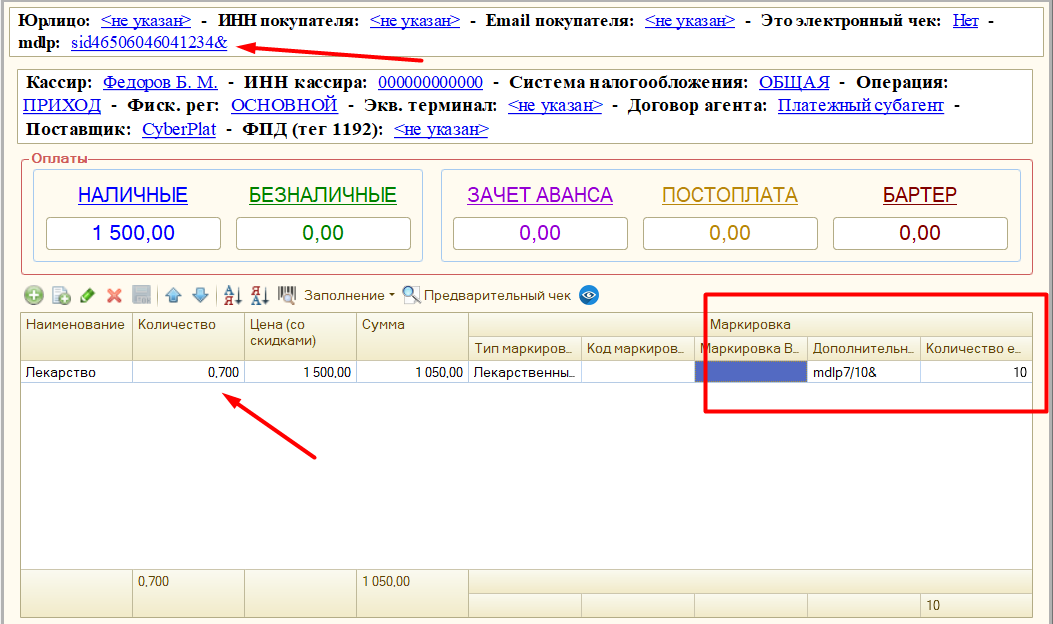
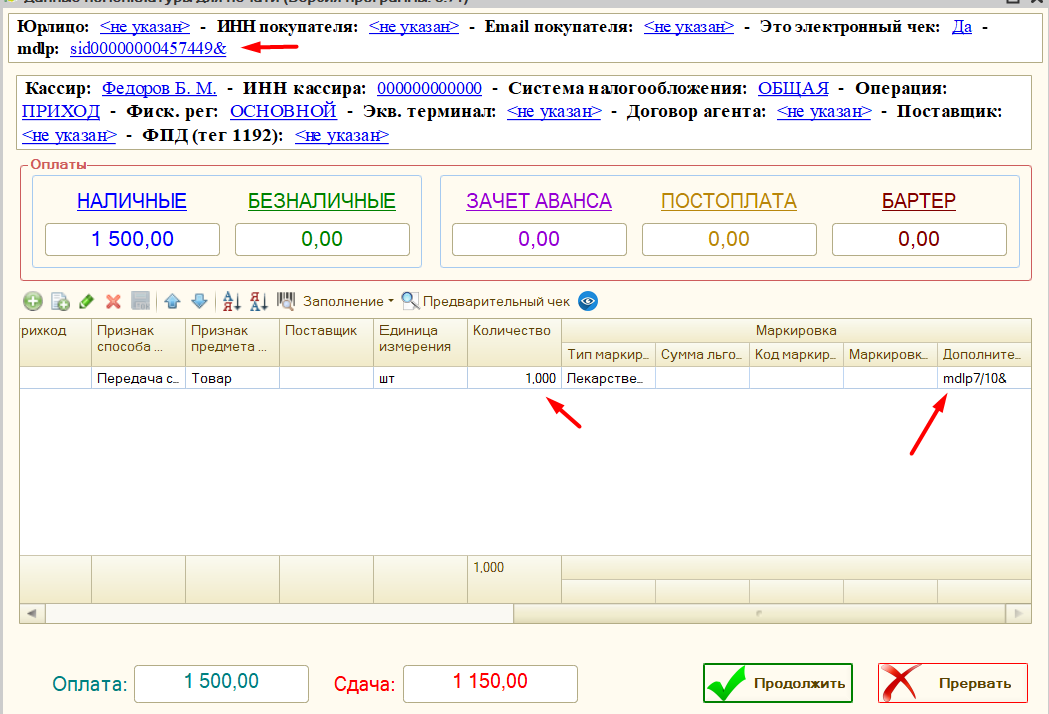
Добавление инструкции для частичной продажи маркированного товара

diff --git a/marking.md b/marking.md
@@ -26,21 +26,29 @@
 
 Продажа лекарств отличается небольшими тонкостями при настройке. Вначале в программе необходим включить параметр **"Использовать маркировку лекарств"**, и заполнить **"Идентификатор места деятельности МДЛП"**. Идентификатор будет передавать в составе тегов 1085 и 1086. После этого указать [тип маркировки](#настройка-типов-маркировки) **"Лекарственные препараты"**.
 
-Особенностью продажи маркированных лекарств, является возможность продавать неполную коробку с маркированным товаром, при этом должен заполняться "дополнительный реквизит предмета расчета (тег 1191)" с информацией о содержимом неполной упаковки. В программе это реализовано так:
-
-При заполнении формы продажи лекарств проверяется коэффициент единицы измерения, и если он отличается от единицы, то программа считает, что продается коробка. Если коробка продается не полностью, в поле количество должно быть дробное значение. Допустим, мы продаем неполную коробку 7 из 10 лекарств, при этом у коробки коэффициент единицы измерения - 10, значит мы можем отсканировать марку коробки, при этом в поле "количество" у нас будет 0.7, а в поле "количество единиц в упаковке" - 10, при этом тег 1191 изменится на "mdlp7/10&" для передачи информации о неполной продаже в Честный Знак. С другой стороны, товар в коробке можно пробить уже поштучно, без указания, что он был в коробке.
-
-![Пример, продажа лекарств](media/продажа_лекарств.png)
-
-> **ФФД 1.2**: при переходе на новую ревизию компоненты **3004** оборудования, при этом если фискальный накопитель переключен на ФФД 1.2, то данные о дробном количества будут переданы уже в составе тега 1291
-
-Помимо, передачи дробного количества, программа поддерживает работу с льготными рецептами, информацию об использовании льготы заполняется из документа основания, если есть соответствующие реквизиты, либо эту информацию можно указать в форме проверки печати в окне "Настройка основных реквизитов чека" - "Реквизиты МДЛП". При изменении информации о льготах в этом окне - будет автоматически пересчитаны дополнительные реквизита пользователя (теги 1085 и 1086)
+Программа поддерживает работу с льготными рецептами, информацию об использовании льготы заполняется из документа основания, если есть соответствующие реквизиты, либо эту информацию можно указать в форме проверки печати в окне "Настройка основных реквизитов чека" - "Реквизиты МДЛП". При изменении информации о льготах в этом окне - будет автоматически пересчитаны дополнительные реквизита пользователя (теги 1085 и 1086)
 
 ![Реквизиты МДЛП](media/реквизиты_мдлп_продажа_лекарств.png)
 
 В крайнем случае теги 1085 и 1086 можно отредактировать вручную, тогда данные заполнения льгот будут проигнорированы.
 
 ![Теги 1085 и 1086 МДЛП](media/доп_реквизиты_продажа_лекарств.png)
+
+### Частичная продажа упаковок маркированного товара ###
+
+Программа поддерживает частичную продажу упаковок лекарств, или парфюмерии на розлив. При этом заполняется дополнительный реквизит предмета расчета (тег 1191) с информацией о содержимом неполной упаковки. Для этого в базе необходимо выполнить следующие действия:
+
+1. Заведите номенклатуру-упаковку лекарства, или тару с большой емкостью для парфюмерии.
+2. Помимо основной единицы измерения, заведите вторичную и назовите ее "**Первичная упаковка**", в поле коэффициент укажите сколько штук или миллилитров товара находится в упаковке.
+   ![Пример, добавление первичной упаковки](media/первичная_упаковка.png)
+3. При продаже товара-упаковки для частичной продажи, указывайте дробное количество в чеке, тогда при заполнении формы продажи будет проверяться коэффициент единицы измерения "Первичная упаковка", и если он отличается от единицы, то программа будет считать, что продается упаковка.
+   ![Пример, документ системы с лекарствами](media/первичная_упаковка_документ.png)
+
+> **Пример**, мы продаем неполную коробку 7 из 10 лекарств, при этом "первичная упаковка" имеет коэффициент - 10, значит в изначальном чеке у нас будет количество 0.7 товара, а в форме проверки печати, это количество автоматически станет равно 1 (так как по закону маркированный товар может передаваться только с количеством 1, и данные о частичной продаже у нас будут отражены только в теге 1191), также в поле "количество единиц в упаковке" будет указано 10, а тег 1191 заполнится как "mdlp7/10&"
+
+![Пример, продажа лекарств](media/продажа_лекарств.png)
+
+> **ФФД 1.2**: при переходе на форма работы с драйверами торгового оборудования ревизия **3004**, и если фискальный накопитель переключен на ФФД 1.2, то данные о дробном количества будут переданы в составе тега 1291
 
 ## Отражение продаж индивидуальных средства защиты ##
 
@@ -76,6 +84,10 @@
 ![Форма ввода маркировки](media/вводмаркировки.png)
 
 > **Важно**, маркировку можно указать только при фактической продаже товара, на это указывают признак способа расчета позиции - **"Передача"** (без оплаты, с частичной или полной оплатой), если в чеке стоит **"Аванс"**, **"Предоплата"**, либо **"Оплата кредита"**, то предполагается, что передается не товар, а деньги, тогда в позициях товара будет фигурировать "Платеж", а не маркированный товар. Для таких позиций марка не заполняется.
+
+## Как настроить частичную продажу упаковок ##
+
+Из-за урезанности функционала типовых конфигураций, в основном, нет поддержки частичной продажи марвкированного твоара
 
 ## Поддержка ФФД 1.2 ##
 
